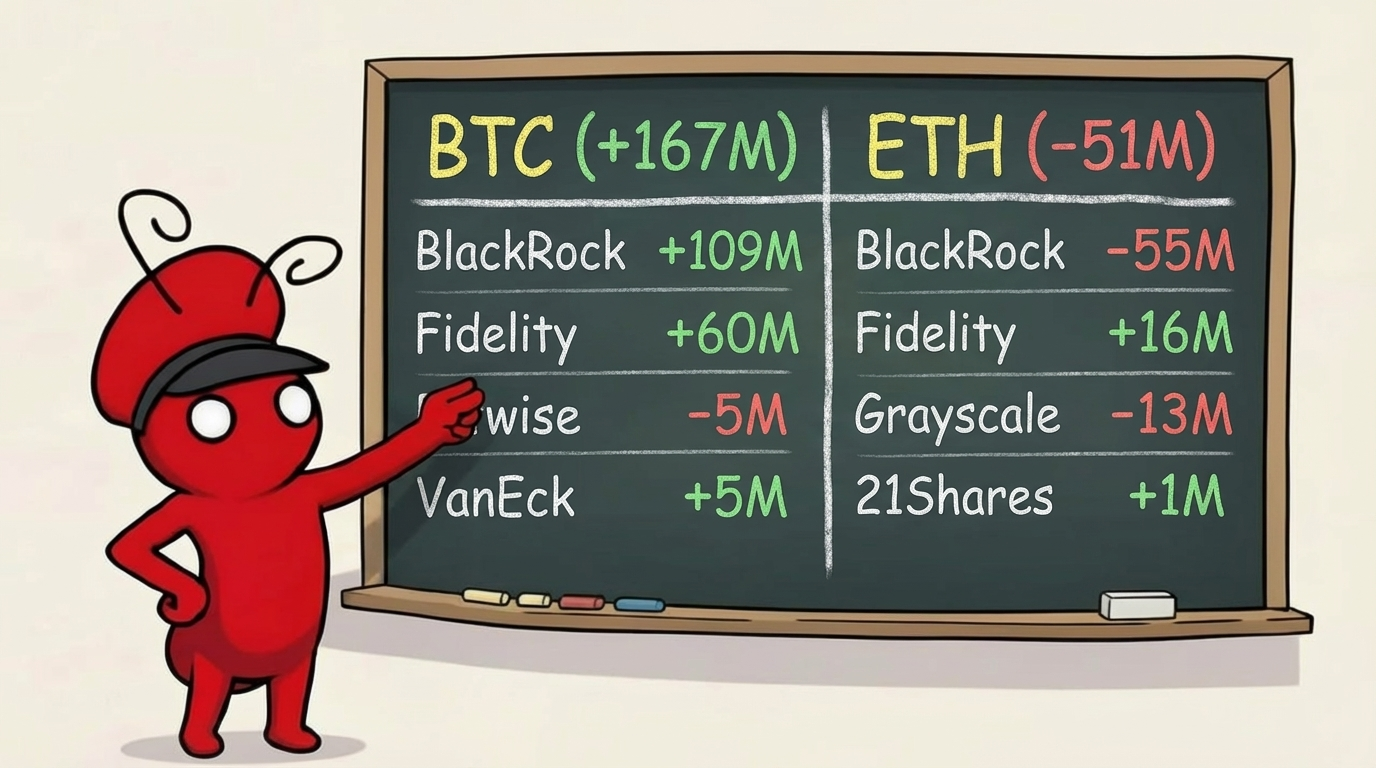
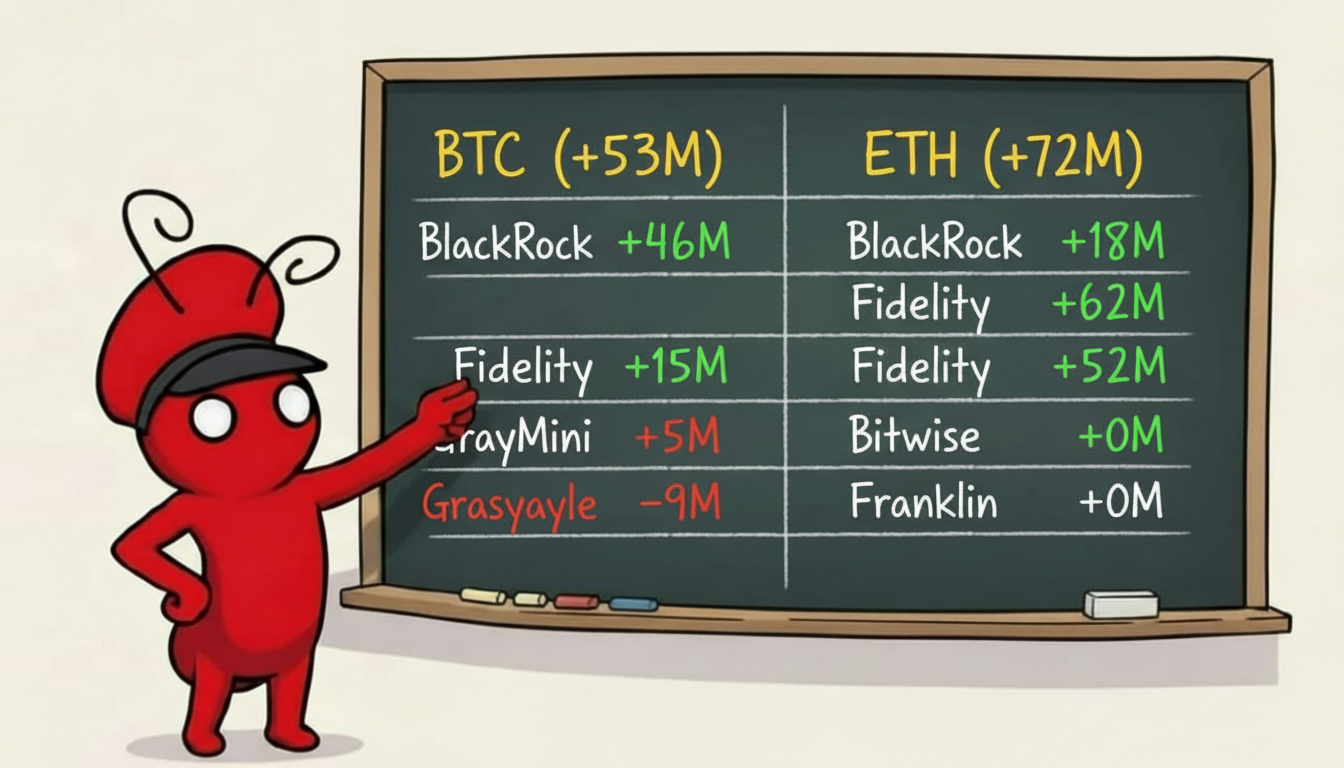
chore: Google 계정 우선순위 확정 (bridge34 1순위), 워치독 설치

Changed region(s): [[0.0625, 0.0625, 0.9688, 1.0]]

diff --git a/etf_image_gen.py b/etf_image_gen.py
@@ -168,30 +168,30 @@ def generate(btc_total: float, btc_funds: dict,
 
 
 if __name__ == "__main__":
-    # 3/9 (US) Farside 확정 데이터 — Coinglass 접속 실패, Farside 단독 확인
+    # 3/12 (US) Farside 확정 데이터
     btc_funds = {
-        "BlackRock": 109.3,
-        "Fidelity": 60.1,
-        "Bitwise": -4.5,
-        "Ark": -2.7,
+        "BlackRock": 46.1,
+        "Fidelity": 15.3,
+        "Bitwise": -5.7,
+        "Ark": 3.0,
         "BTCO": 0.0,
         "EZBC": 0.0,
         "BRRR": 0.0,
-        "VanEck": 4.9,
+        "VanEck": 0.0,
         "BTCW": 0.0,
+        "Grayscale": -9.9,
+        "GrayMini": 5.0,
+    }
+    # ETH: 3/12 Farside 확정 데이터
+    eth_funds = {
+        "BlackRock": 18.7,
+        "Fidelity": 52.0,
+        "Bitwise": 0.9,
+        "21Shares": 0.0,
+        "VanEck": 0.0,
+        "Invesco": 0.0,
+        "Franklin": 0.8,
         "Grayscale": 0.0,
         "GrayMini": 0.0,
     }
-    # ETH: 3/9 Farside 확정 데이터
-    eth_funds = {
-        "BlackRock": -55.1,
-        "Fidelity": 16.2,
-        "Bitwise": 0.0,
-        "21Shares": 1.0,
-        "VanEck": 0.0,
-        "Invesco": 0.0,
-        "Franklin": 0.0,
-        "Grayscale": -13.4,
-        "GrayMini": 0.0,
-    }
-    generate(167.1, btc_funds, -51.3, eth_funds)
+    generate(53.8, btc_funds, 72.4, eth_funds)

diff --git a/memory/tech.md b/memory/tech.md
@@ -6,6 +6,11 @@
 ## 운영 원칙
 - 모든 날짜/요일/시간은 한국시간(KST) 기준으로 표기
 
+## Google 계정 우선순위 (2026-03-14 확정)
+- **1순위**: `fireant@bridge34.com` — 캘린더, 드라이브, 시트, 슬라이드, 독스, Forms 전부
+- **2순위**: `josoyjjk@gmail.com` — 1순위 실패 시 fallback
+- OAuth 토큰: `secrets/google-token.json` (bridge34.com 계정 기준)
+
 ## 알려진 이슈
 - reasoning/thinking 출력이 텔레그램 메시지로 노출되는 버그 (2026-02-24~25):
   - 원인: openclaw.json에 무효 키(`streaming`, `ownerDisplay`) 사용 → 설정 미적용
